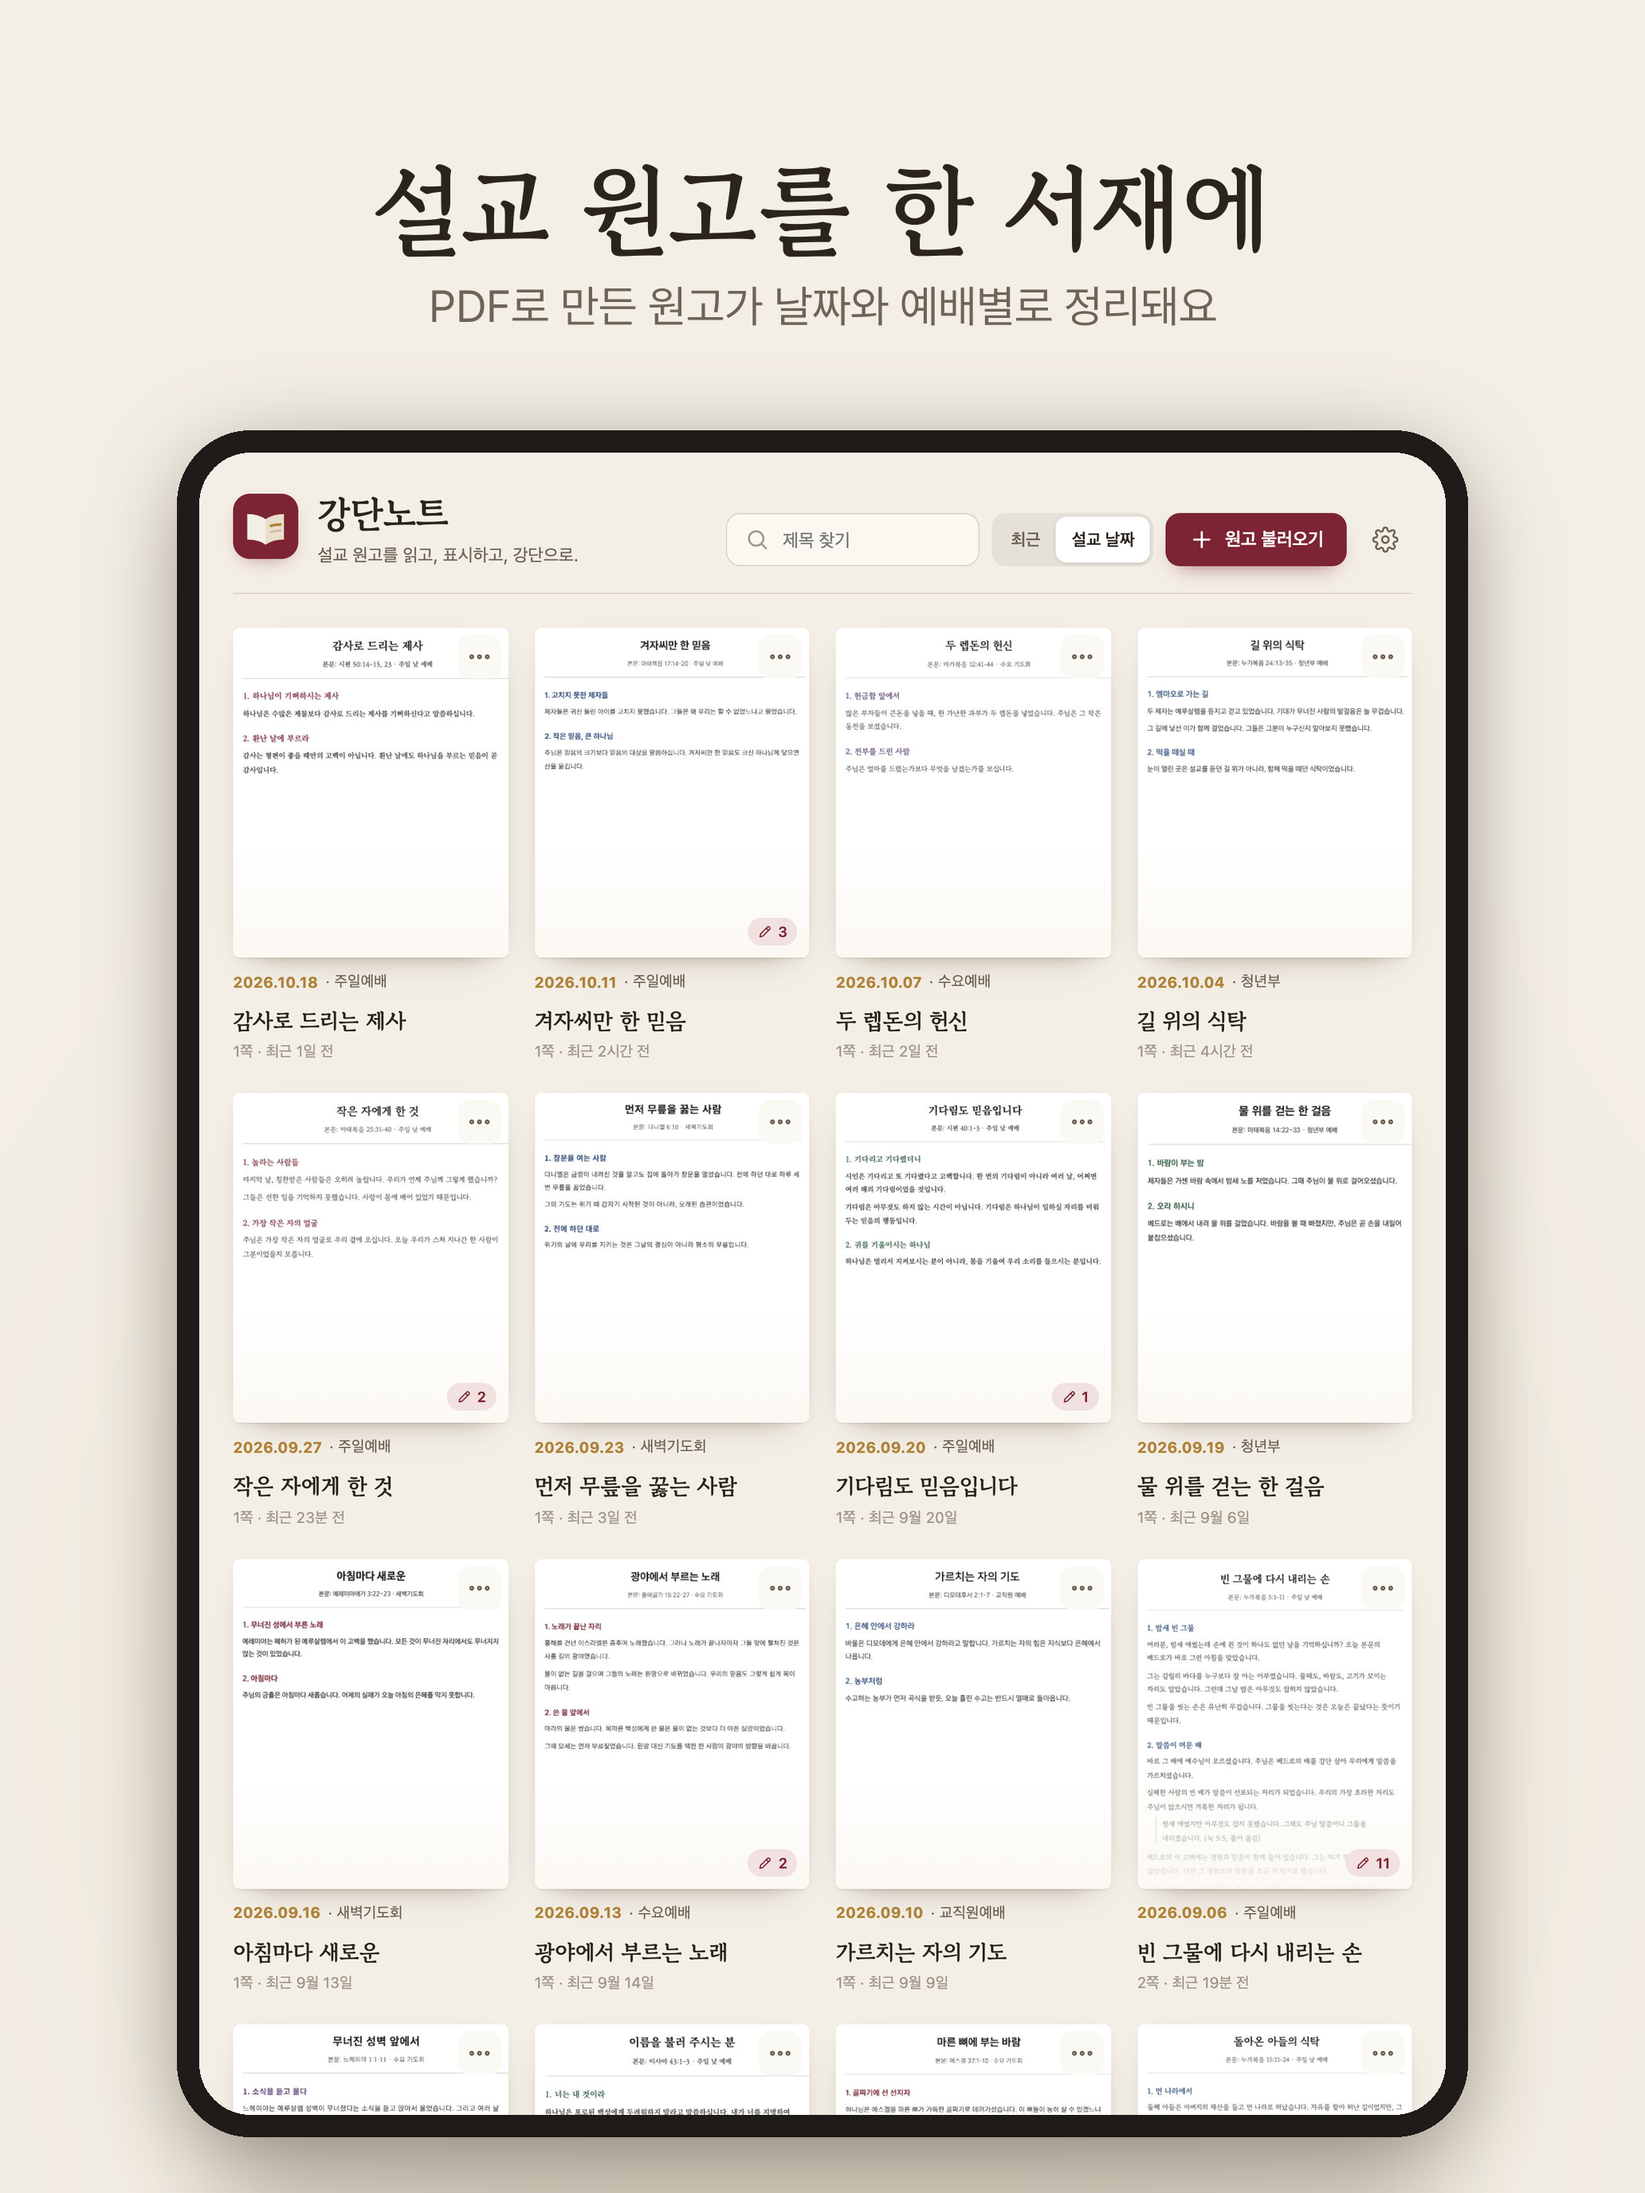
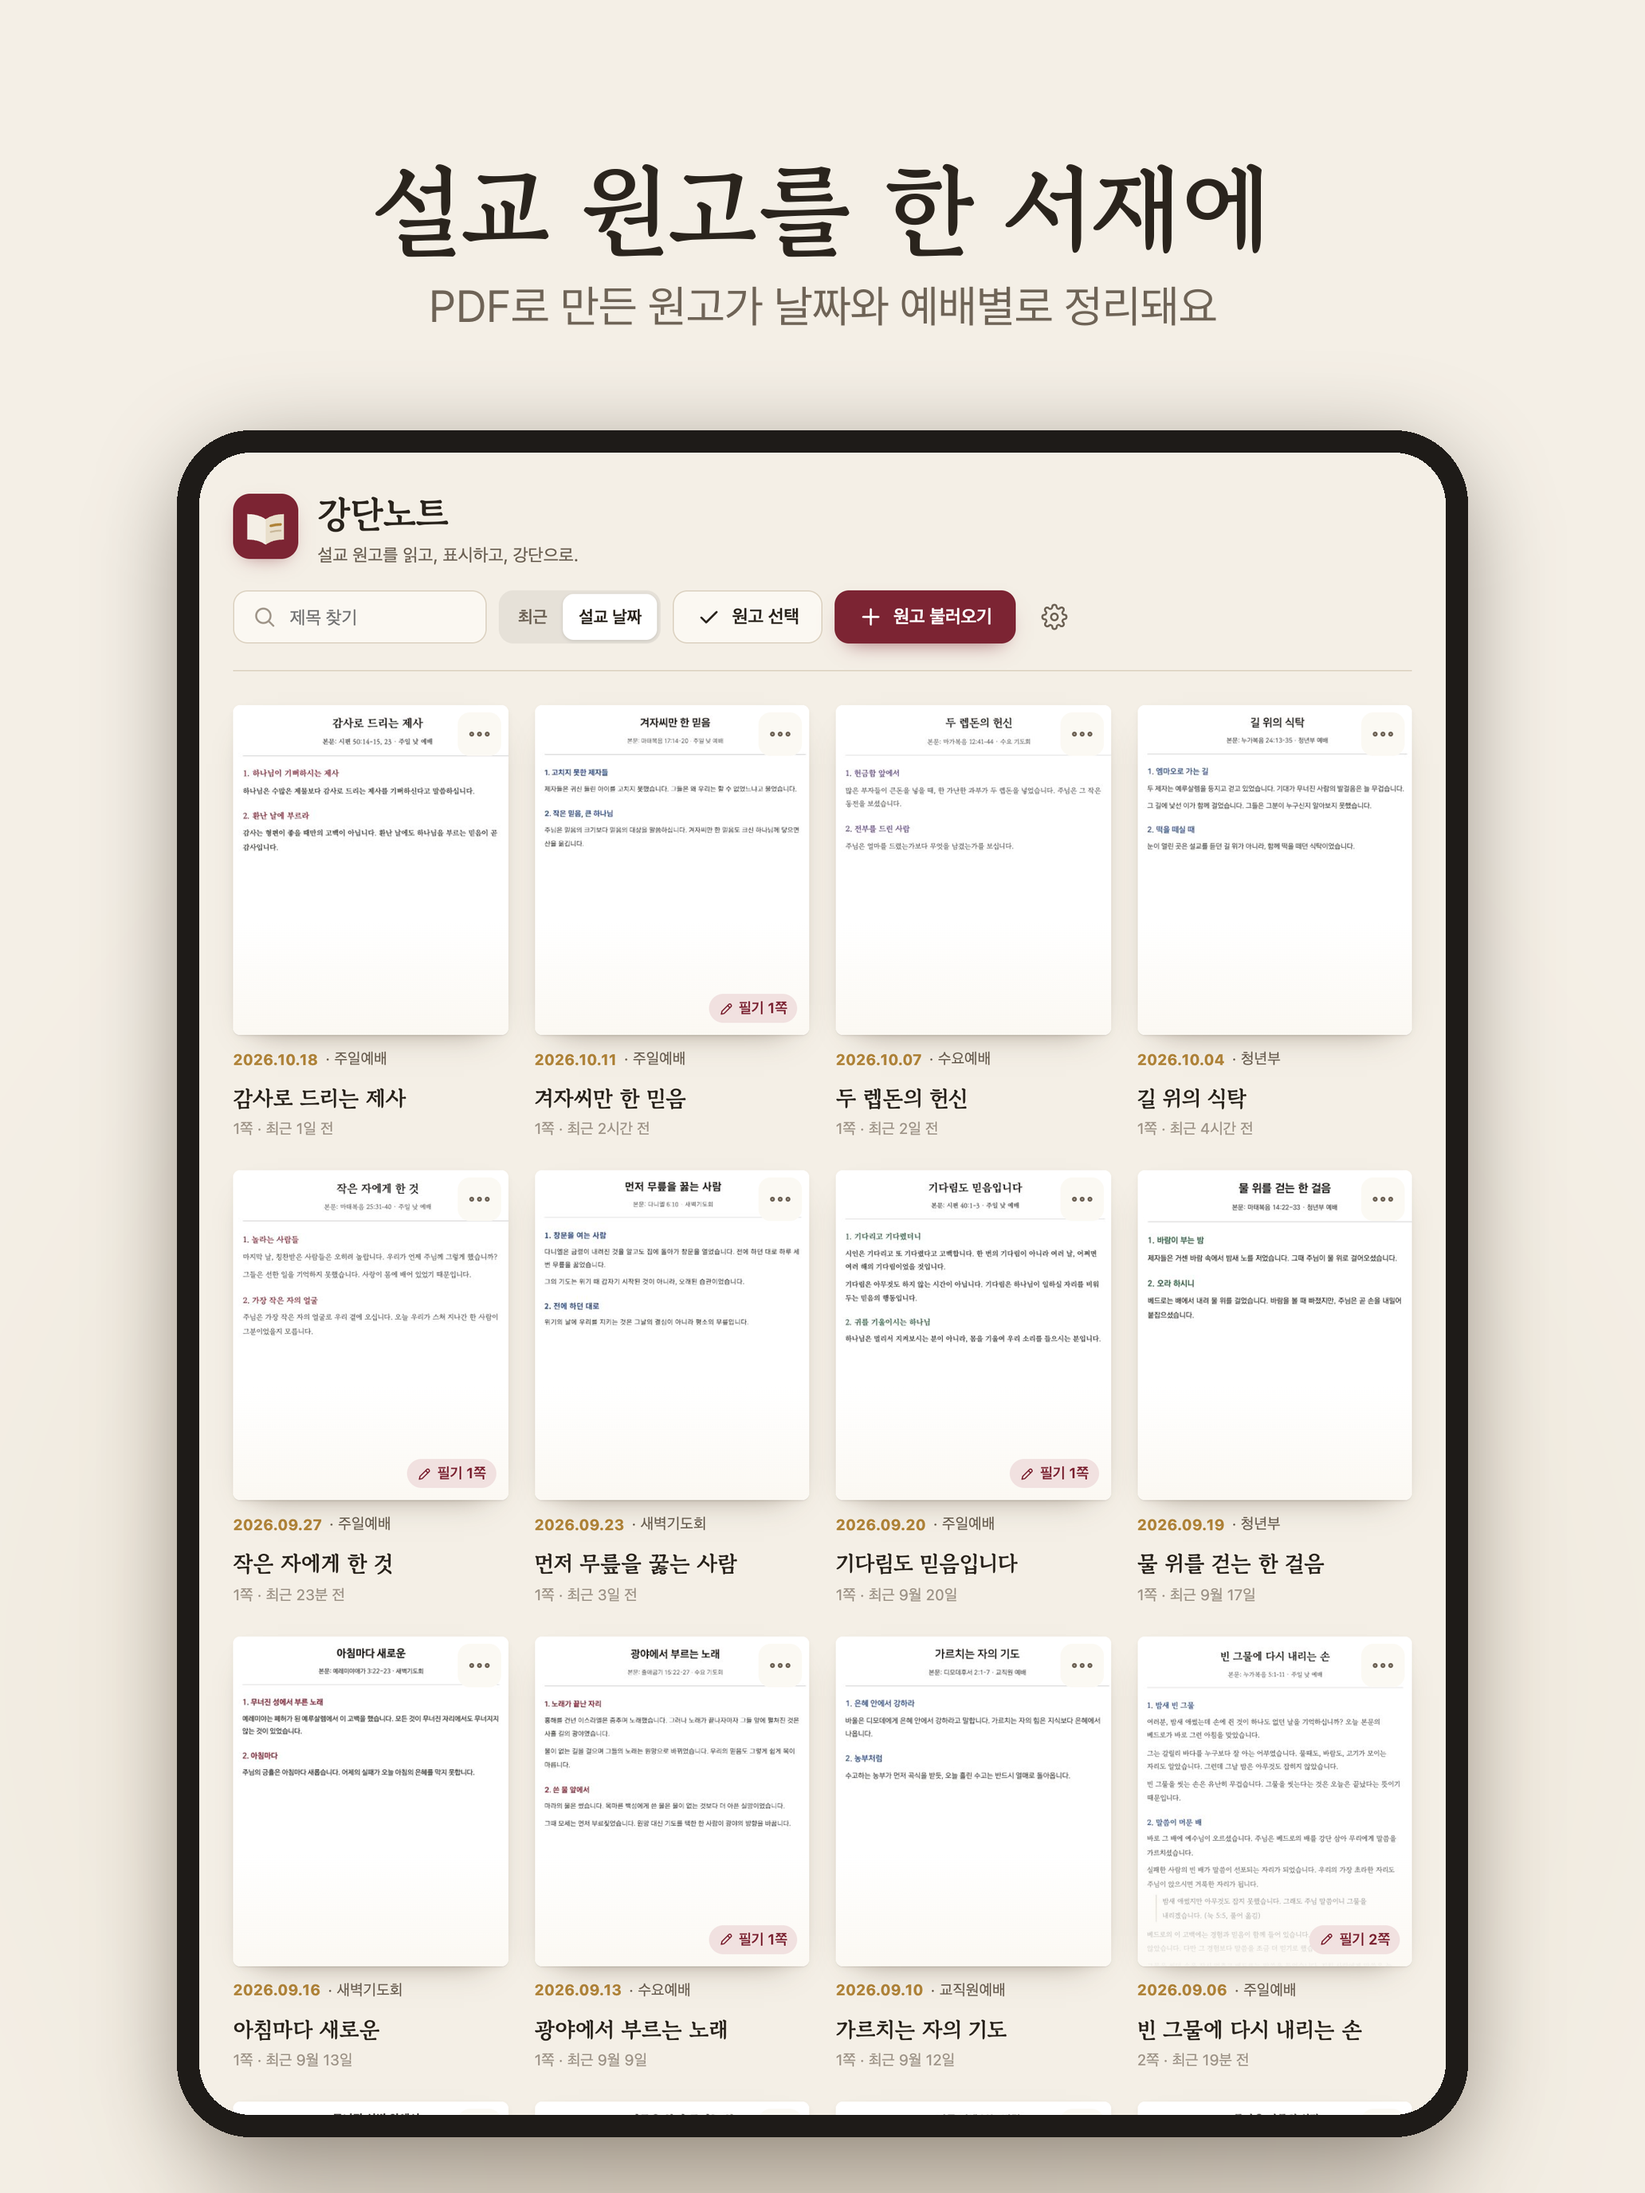
불러오기 폴더 기억을 선택 창 자체 기억으로(구글 드라이브) · 스토어 스크린숏 8장 · 1.0.1 문구
- FolderPicker: directoryURL 을 주지 않는다. 구글 드라이브는 파일마다 보관 칸을 따로 두어
  '파일이 든 폴더' 경로가 실제 폴더가 아니라 늘 기본 위치로 열렸고, 파일 주소(북마크)를 주면
  '최근 항목'으로 열렸다. 시작 폴더를 비우면 선택 창이 이 앱에서 마지막으로 보던 폴더를
  스스로 기억해 연다(시뮬레이터: 앱을 껐다 켜도 유지 확인). 옛 pn.lastFolder.* 기록은 지움
- iOS 1.0.1(4)
- 스토어 스크린숏 8장(타이머·스톱워치, 쪽 미리보기 추가, 새 막대·서재 화면), shots.mjs 를 지금 화면에 맞게
- listing.md: 프로모션 텍스트, 이 버전의 새로운 기능, 설명 갱신

Changed region(s): [[0.124, 0.4062, 0.8682, 0.9688], [0.124, 0.2188, 0.8682, 0.4062]]

diff --git a/ios/App/App/FolderPicker.swift b/ios/App/App/FolderPicker.swift
@@ -9,10 +9,11 @@ class PulpitViewController: CAPBridgeViewController {
     }
 }
 
-/// 파일 앱 선택 창을 직접 띄워, 마지막으로 원고를 고른 폴더에서 다시 열리게 한다.
-/// (웹의 <input type=file> 은 시작 폴더를 정할 수 없다)
-/// - 원고(pdf)와 백업(zip)은 폴더를 따로 기억한다.
-/// - 원본 자리에서 열어(asCopy: false) 그 폴더를 알아낸 뒤, 파일은 임시 폴더로 복사해 넘긴다.
+/// 파일 앱 선택 창을 직접 띄운다(웹의 <input type=file> 대신).
+/// - 시작 폴더는 정하지 않는다. 그러면 선택 창이 이 앱에서 마지막으로 보던 폴더를 스스로 기억해 연다.
+///   directoryURL 을 주면 그 기억을 덮어쓰는데, 구글 드라이브처럼 파일마다 보관 칸을 따로 두는
+///   저장소에서는 '파일이 든 폴더' 경로가 실제 폴더가 아니어서 늘 '최근 항목'으로 열렸다.
+/// - 원본 자리에서 열어(asCopy: false) 조율된 읽기로 내려받은 뒤, 임시 폴더로 복사해 넘긴다.
 @objc(FolderPickerPlugin)
 public class FolderPickerPlugin: CAPPlugin, CAPBridgedPlugin, UIDocumentPickerDelegate {
     public let identifier = "FolderPickerPlugin"
@@ -23,7 +24,10 @@ public class FolderPickerPlugin: CAPPlugin, CAPBridgedPlugin, UIDocumentPickerDe
     private var pending: CAPPluginCall?
     private var kind = "pdf"
 
-    private func folderKey(_ kind: String) -> String { "pn.lastFolder." + kind }
+    override public func load() {
+        // 1.0.1(3) 까지 쓰던 시작 폴더 기록은 이제 쓰지 않는다
+        for k in ["pdf", "zip"] { UserDefaults.standard.removeObject(forKey: "pn.lastFolder." + k) }
+    }
 
     @objc func pick(_ call: CAPPluginCall) {
         let kind = call.getString("kind") == "zip" ? "zip" : "pdf"
@@ -32,9 +36,6 @@ public class FolderPickerPlugin: CAPPlugin, CAPBridgedPlugin, UIDocumentPickerDe
             let picker = UIDocumentPickerViewController(forOpeningContentTypes: kind == "zip" ? [.zip] : [.pdf], asCopy: false)
             picker.allowsMultipleSelection = multiple
             picker.delegate = self
-            if let s = UserDefaults.standard.string(forKey: self.folderKey(kind)), let dir = URL(string: s) {
-                picker.directoryURL = dir
-            }
             self.pending?.resolve(["files": []])
             self.pending = call
             self.kind = kind
@@ -51,9 +52,6 @@ public class FolderPickerPlugin: CAPPlugin, CAPBridgedPlugin, UIDocumentPickerDe
         guard let call = pending else { return }
         pending = nil
         let kind = self.kind
-        if let first = urls.first {
-            UserDefaults.standard.set(first.deletingLastPathComponent().absoluteString, forKey: folderKey(kind))
-        }
         DispatchQueue.global(qos: .userInitiated).async {
             let fm = FileManager.default
             let tmp = fm.temporaryDirectory.appendingPathComponent("picked", isDirectory: true)

diff --git a/app.js b/app.js
@@ -377,7 +377,7 @@ async function analyze(pdf, onPage) {
   return { crop, thumb };
 }
 
-// 앱에서는 파일 앱 선택 창을 직접 띄워 마지막으로 고른 폴더에서 열리게 한다(ios/App/App/FolderPicker.swift).
+// 앱에서는 파일 앱 선택 창을 직접 띄운다(ios/App/App/FolderPicker.swift) — 선택 창이 마지막으로 보던 폴더에서 열린다.
 // 웹의 파일 입력 창은 시작 폴더를 정할 수 없어서, 웹판과 플러그인이 없을 때만 쓴다.
 async function pickFiles(kind) {
   const P = plugin('FolderPicker');

diff --git a/store/tools/compose.py b/store/tools/compose.py
@@ -9,10 +9,12 @@ W, H = 2064, 2752
 ITEMS = [
     ('1-library', '설교 원고를 한 서재에', 'PDF로 만든 원고가 날짜와 예배별로 정리돼요', 'light'),
     ('2-prep', '애플펜슬로 표시하며 준비하고', '밑줄 · 형광펜 · 동그라미, 손바닥이 닿아도 괜찮아요', 'light'),
-    ('3-pulpit', '강단에서는 탭 한 번으로', '이어 읽을 자리 표시 · 설교 타이머 · 화면 꺼짐 방지', 'light'),
-    ('4-pulpit-dark', '어두운 예배당에서도 편안하게', '밝게 · 종이 · 어둡게, 눈에 맞는 화면으로', 'dark'),
-    ('5-select', '고르고, 옮기고, 지우고', '올가미로 둘러싼 필기를 끌어서 옮겨요', 'light'),
-    ('6-settings', '원고는 내 아이패드에만', '로그인도 서버도 없이, 백업은 파일 하나로', 'light'),
+    ('3-pulpit', '강단에서는 탭 한 번으로', '이어 읽을 자리 표시 · 지금 시각 · 화면 꺼짐 방지', 'light'),
+    ('4-timer', '타이머도, 스톱워치도', '거꾸로 세거나 흘러간 시간을 세고, 넘으면 빨간색으로', 'light'),
+    ('5-thumbs', '쪽 미리보기로 한눈에', '필기까지 보이는 목록, 누르면 그 쪽으로 바로', 'light'),
+    ('6-pulpit-dark', '어두운 예배당에서도 편안하게', '밝게 · 종이 · 어둡게, 눈에 맞는 화면으로', 'dark'),
+    ('7-select', '고르고, 옮기고, 돌리고', '올가미로 둘러싼 필기를 옮기고 크기 · 방향까지', 'light'),
+    ('8-settings', '원고는 내 아이패드에만', '로그인도 서버도 없이, 백업은 파일 하나로', 'light'),
 ]
 THEME = {'light': ('#F4EFE6', '#2A241D', '#6E6356', '#EBE3D4'), 'dark': ('#1B1917', '#F4EFE6', '#BDB3A5', '#2A2724')}
 
@@ -22,6 +24,8 @@ def rounded(size, r):
     return m
 
 os.makedirs(os.path.join(SHOTS, 'appstore'), exist_ok=True)
+for f in os.listdir(os.path.join(SHOTS, 'appstore')):
+    if f.endswith('.png'): os.remove(os.path.join(SHOTS, 'appstore', f))
 for k, (name, title, sub, th) in enumerate(ITEMS, 1):
     bg, ink, ink2, glow = THEME[th]
     can = Image.new('RGB', (W, H), bg)

diff --git a/README.md b/README.md
@@ -68,10 +68,10 @@
 | 화면 꺼짐 방지 | Wake Lock API | `@capacitor-community/keep-awake` |
 | 내보내기·백업 저장 | Web Share / 다운로드 | Filesystem(임시 폴더) → `@capacitor/share` 공유 시트 |
 | 다른 앱에서 받기 | — | Info.plist `CFBundleDocumentTypes`(PDF·zip) → `appUrlOpen` → Filesystem.readFile |
-| 원고 불러오기 · 백업 복원 | `<input type=file>` | 자체 플러그인 `FolderPicker`(`ios/App/App/FolderPicker.swift`, `PulpitViewController` 에서 등록) — 원본 자리에서 열어 **마지막 폴더를 기억**(`directoryURL`, pdf·zip 따로 UserDefaults), 임시 폴더로 복사해 넘김 |
+| 원고 불러오기 · 백업 복원 | `<input type=file>` | 자체 플러그인 `FolderPicker`(`ios/App/App/FolderPicker.swift`, `PulpitViewController` 에서 등록) — 원본 자리에서 열어(asCopy:false) 조율된 읽기로 내려받고 임시 폴더로 복사해 넘김. **시작 폴더(`directoryURL`)는 일부러 주지 않는다**: 그래야 선택 창이 이 앱에서 마지막으로 보던 폴더를 스스로 기억해 연다(앱을 껐다 켜도). 구글 드라이브는 파일마다 보관 칸을 따로 두어 '파일이 든 폴더' 경로가 실제 폴더가 아니고, 파일 주소를 주면 '최근 항목'으로 열려서 1.0.1(4)에서 뺐다 |
 | 오프라인 | 서비스워커 | 앱 안에 파일이 들어 있음(서비스워커 안 씀) |
 
-- 앱 ID `com.yeolstudio.pulpitnotes` · 이름 강단노트 · 팀 2GXUR7D82T · 버전 1.0.1(3) — 1.0.0(1)은 2026-09-27 심사 제출분 · `TARGETED_DEVICE_FAMILY = 2`(iPad 전용, 나중에 아이폰 추가는 가능·되돌리기는 불가).
+- 앱 ID `com.yeolstudio.pulpitnotes` · 이름 강단노트 · 팀 2GXUR7D82T · 버전 1.0.1(4) — 1.0.0(1)은 2026-09-27 심사 제출분 · `TARGETED_DEVICE_FAMILY = 2`(iPad 전용, 나중에 아이폰 추가는 가능·되돌리기는 불가).
 - 빌드: `npm run ios`(www/ 모으기 + cap sync) → Xcode에서 `ios/App/App.xcodeproj` 열기 → Product › Archive.
   시뮬레이터: `xcodebuild -project ios/App/App.xcodeproj -scheme App -sdk iphonesimulator -derivedDataPath ios/DerivedData build CODE_SIGNING_ALLOWED=NO`.
 - JS 콘솔 보기: `xcrun simctl launch --console-pty <기기> com.yeolstudio.pulpitnotes` (⚡ 로그).
